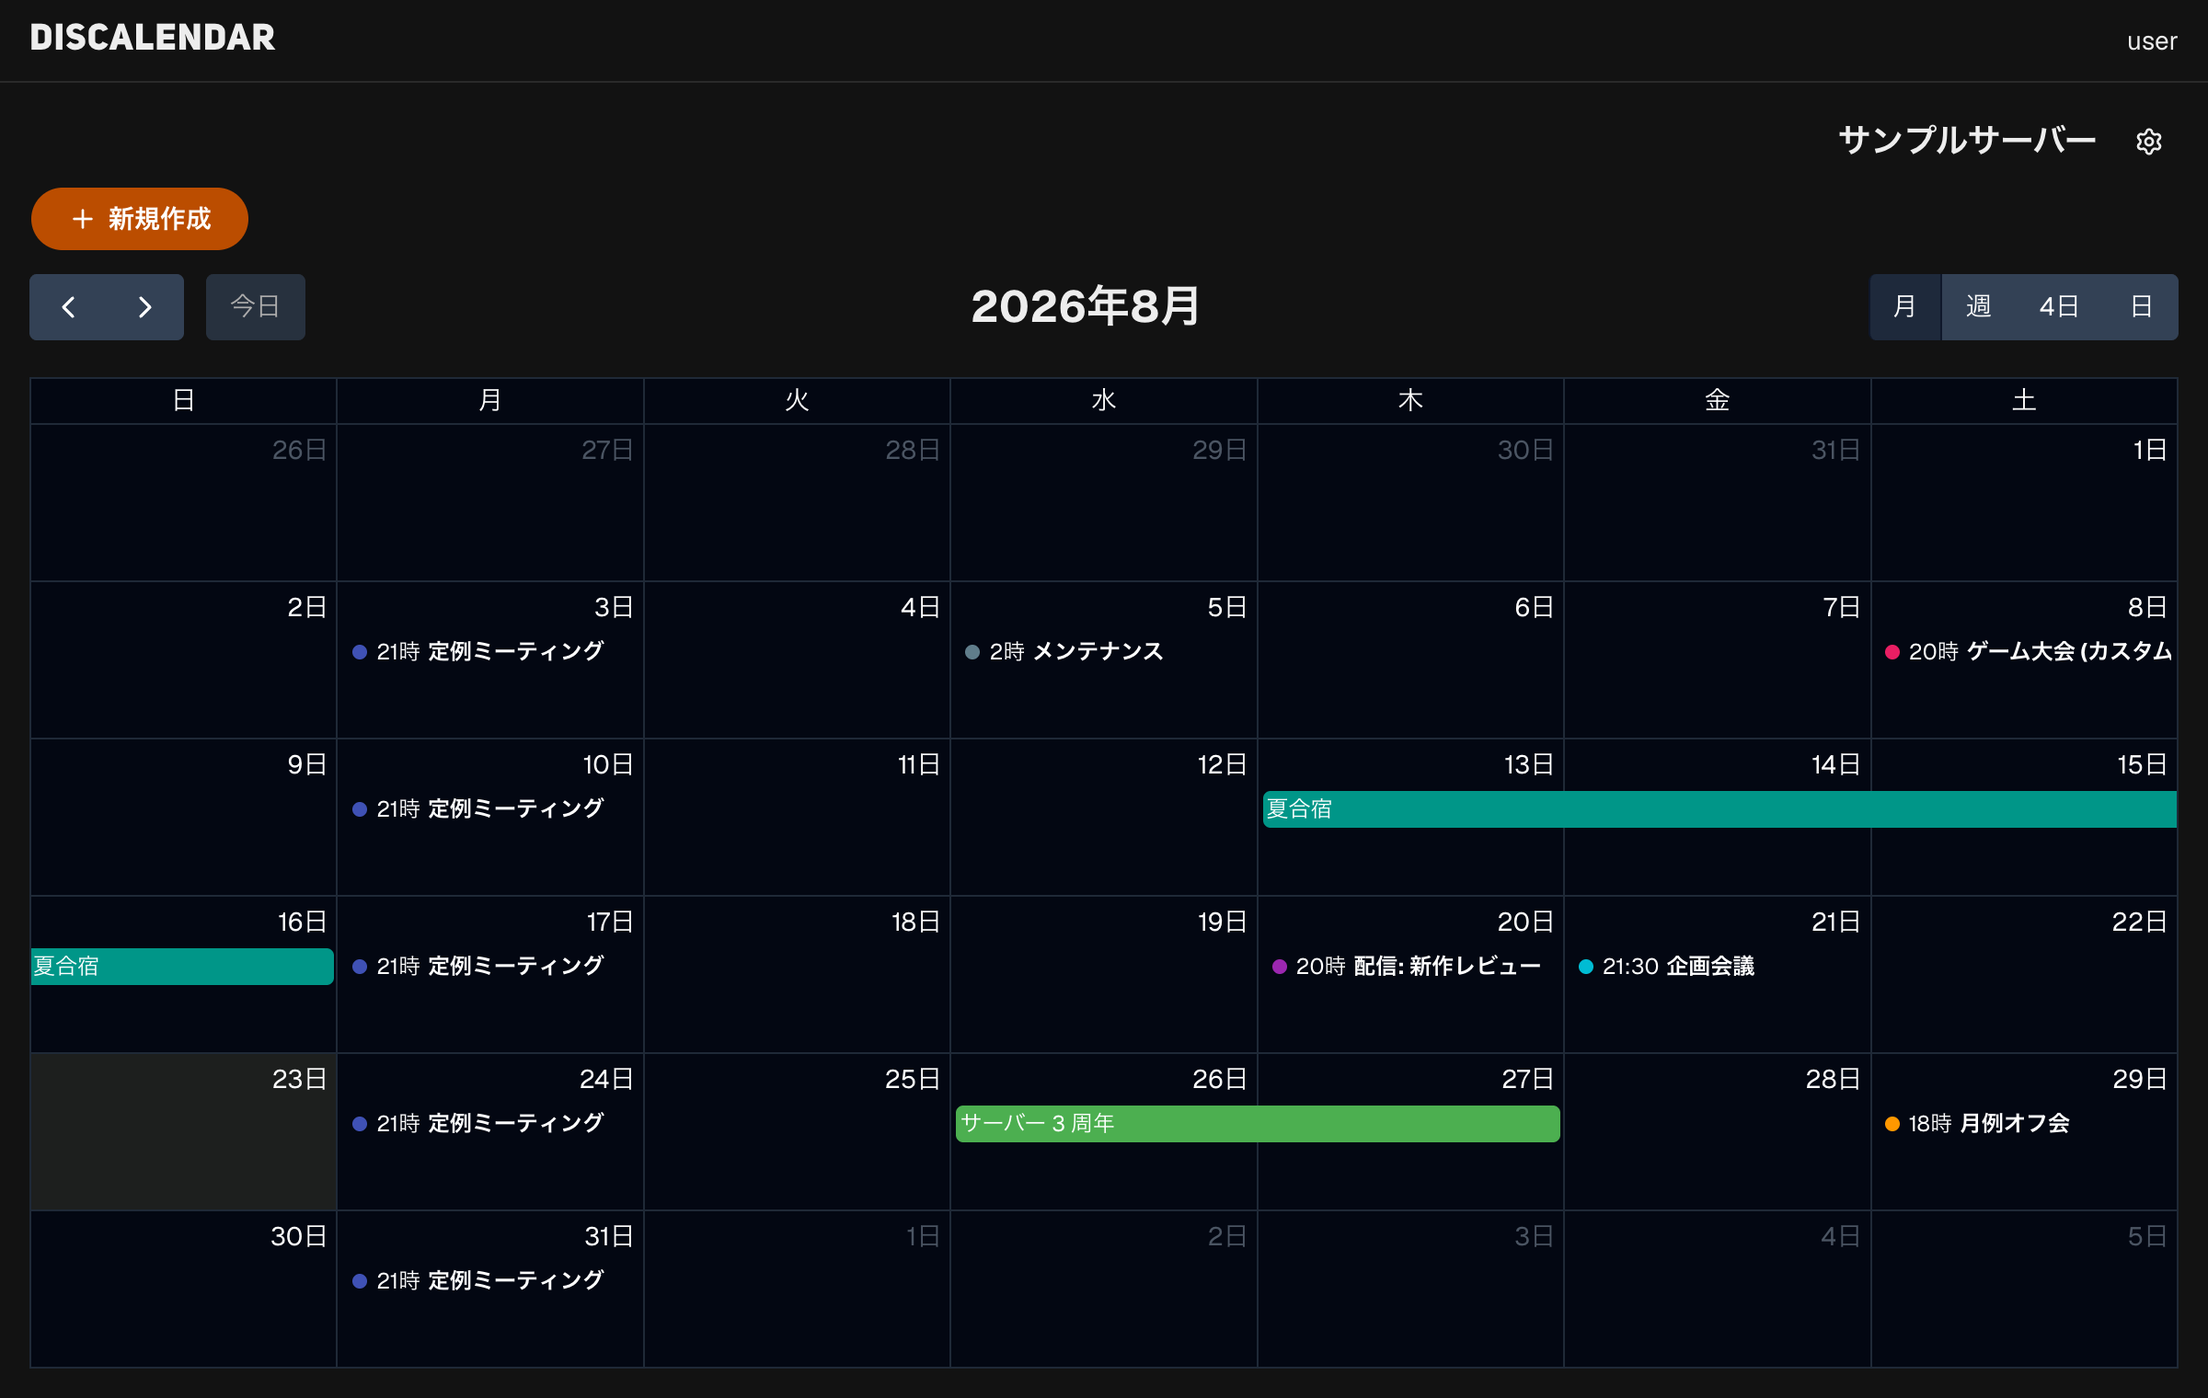
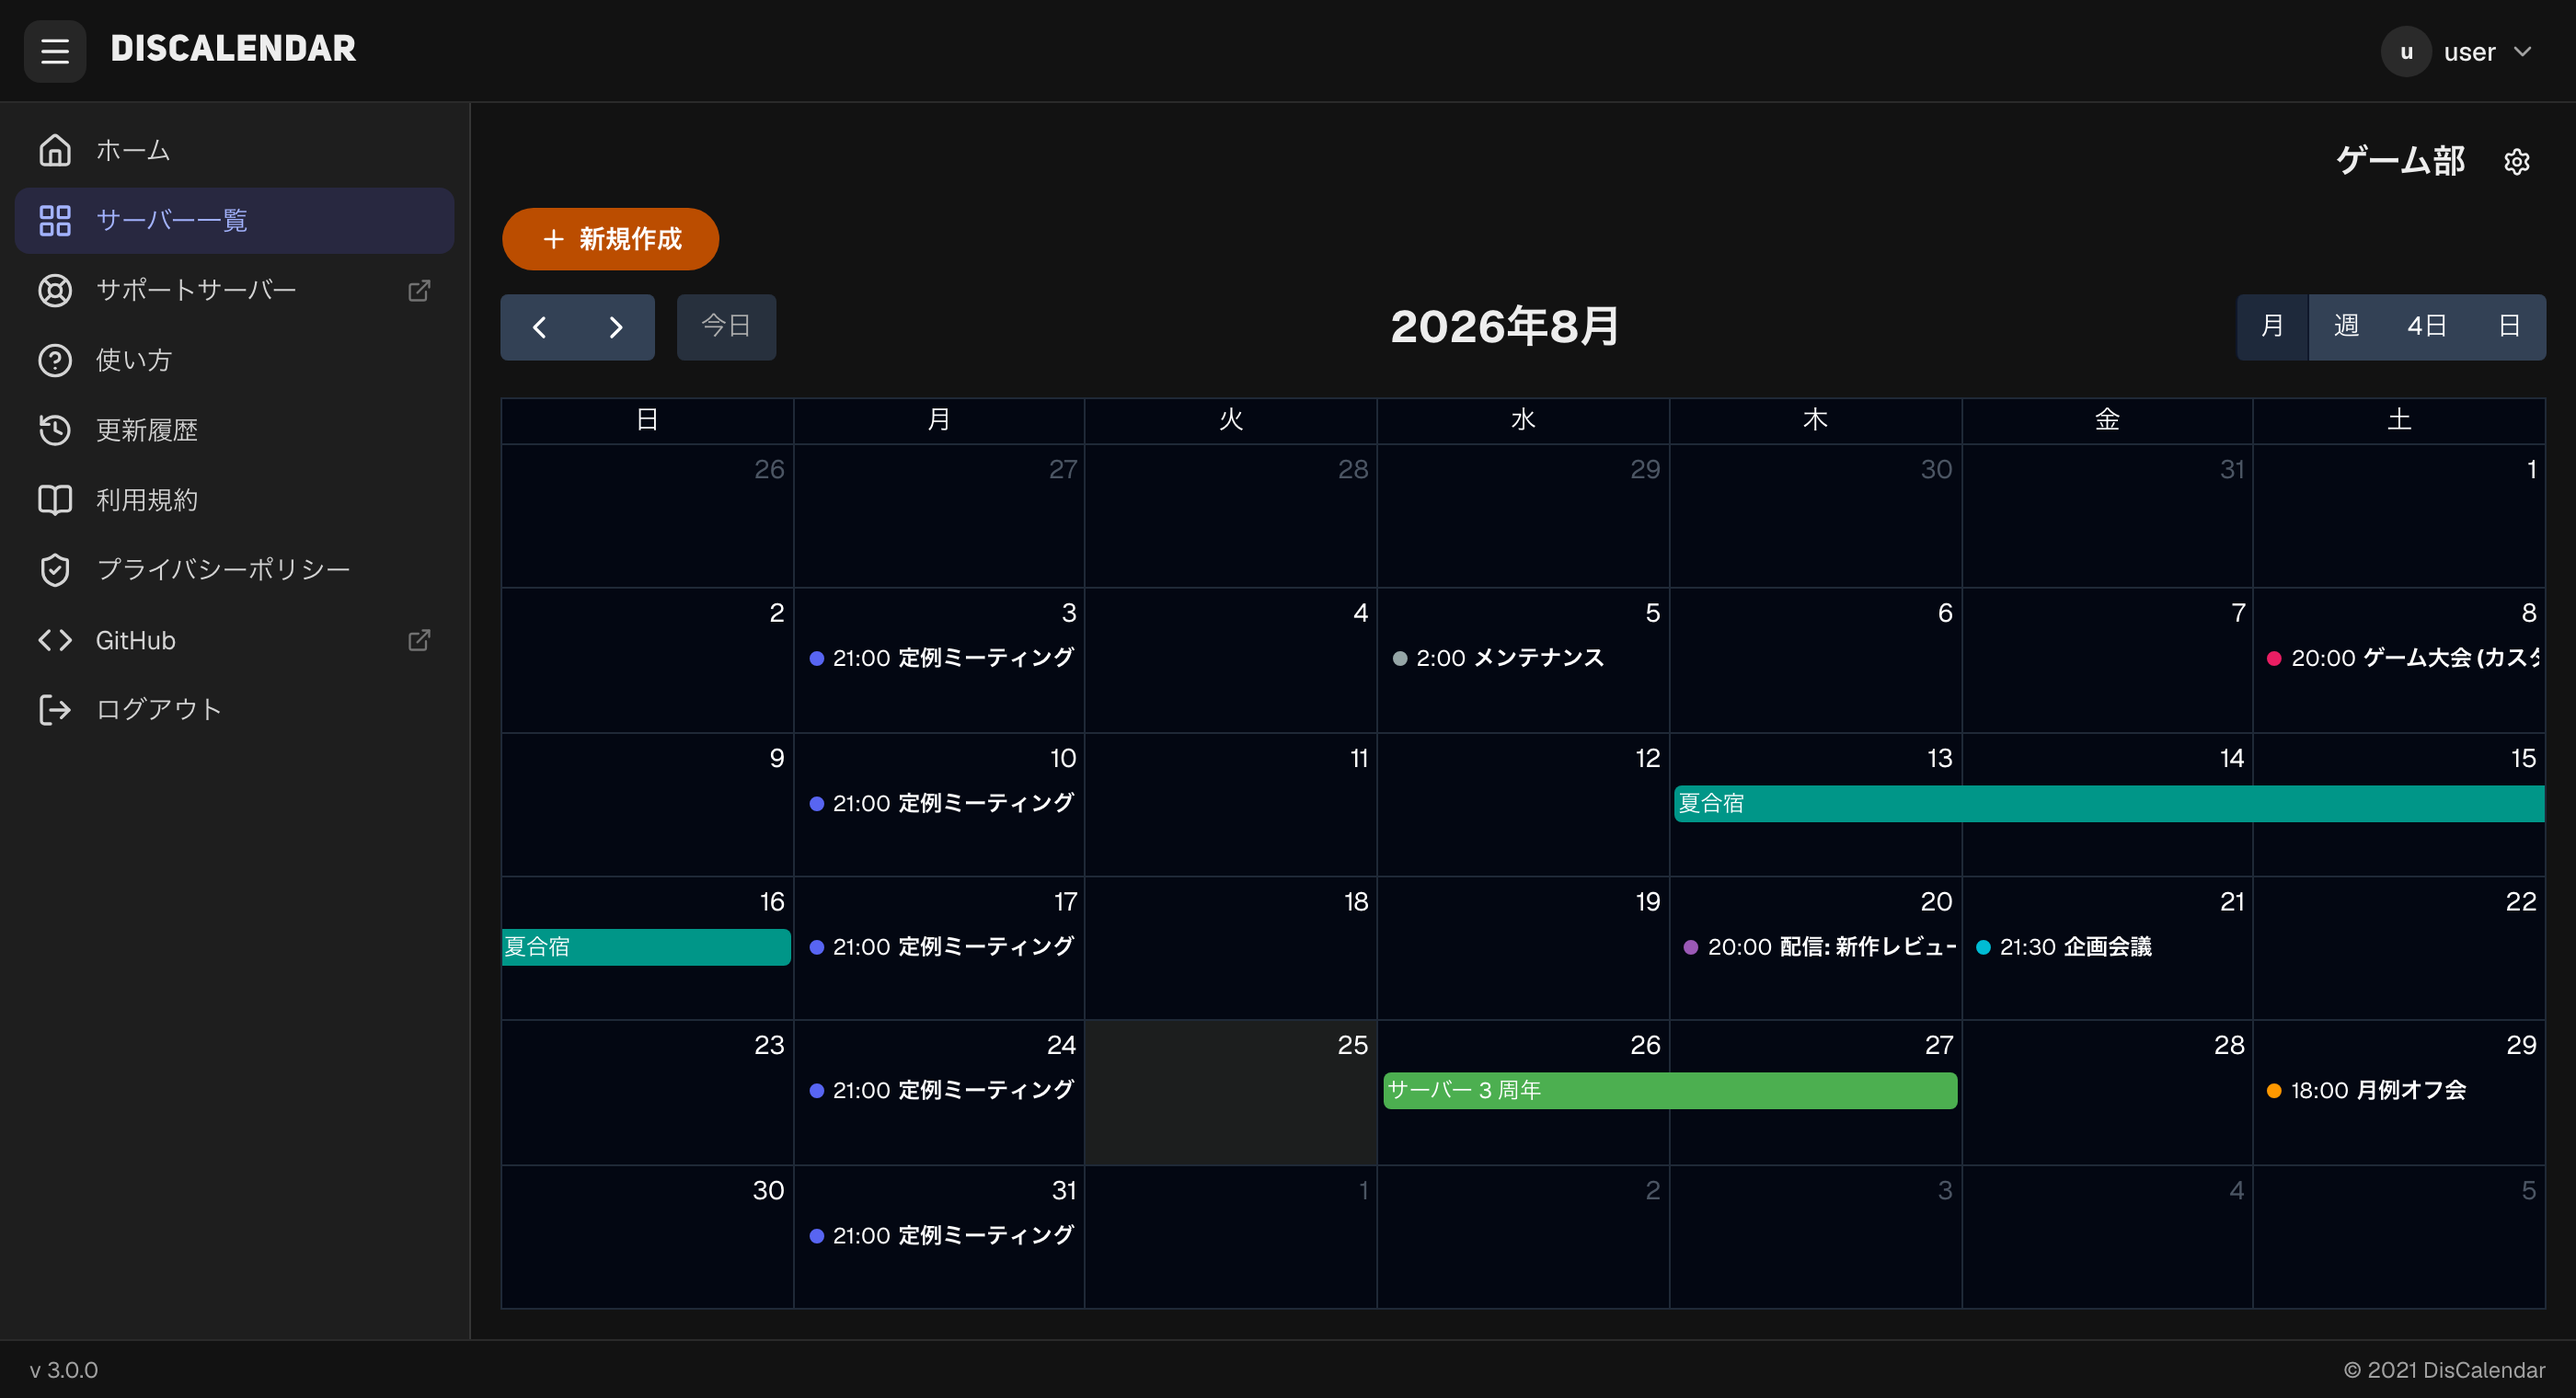
カレンダーの時刻を "H:mm" に揃え、日付から「日」を外す (#64)

diff --git a/web/src/components/event-calendar.tsx b/web/src/components/event-calendar.tsx
@@ -7,6 +7,7 @@ import Calendar, {
   type DatesSetInfo,
   type EventChangeInfo,
   type EventClickInfo,
+  type FormatterInput,
 } from "@fullcalendar/react";
 import dayGridPlugin from "@fullcalendar/react/daygrid";
 import interactionPlugin from "@fullcalendar/react/interaction";
@@ -59,6 +60,42 @@ import {
 import "@fullcalendar/react/skeleton.css";
 import "@fullcalendar/react/themes/classic/theme.css";
 import "@fullcalendar/react/themes/classic/palette.css";
+
+/**
+ * 日時の表記。FullCalendar の既定は Intl.DateTimeFormat 任せなので、日本語ロケールでは
+ * ブラウザ (ICU) の実装差がそのまま出る。時刻は 24 時間制の "H:mm"、日付は数字だけに固定する
+ */
+
+/** "2:00" (分が 0 でも省略しない) */
+function timeText({ hour, minute }: { hour: number; minute: number }): string {
+  return `${hour}:${String(minute).padStart(2, "0")}`;
+}
+
+/**
+ * 予定の時刻。既定は分が 0 のとき「時」だけを出す (omitZeroMinute) ので Chrome は "2時"、
+ * Safari は "2:00" になる。終了時刻まで出す週 / 4日 / 日ビューでは範囲の書式
+ * (Intl の formatRange。ja は "2時00分〜3時00分") が使われる
+ */
+const eventTimeFormat: FormatterInput = (info) =>
+  info.end
+    ? `${timeText(info.start)} - ${timeText(info.end)}`
+    : timeText(info.start);
+
+/** 時刻軸のラベル ("2:00")。既定は予定の時刻と同じ理由で "2時" と "2:00" に割れる */
+const slotHeaderFormat: FormatterInput = (info) => timeText(info.date);
+
+/** 月ビューの日付セル ("26")。ja の Intl は "26日" を返す (既定の omitTrailing では「日」が落ちない) */
+const dayCellFormat: FormatterInput = (info) => String(info.date.day);
+
+/** 曜日の略称。FullCalendar が渡す marker はタイムゾーンを持たない UTC 基準の Date */
+const weekdayFormat = new Intl.DateTimeFormat("ja-JP", {
+  weekday: "short",
+  timeZone: "UTC",
+});
+
+/** 週 / 4日 / 日ビューの日付ヘッダ ("23(日)")。既定は ja だと "23日(日)" / "23日日曜日" */
+const dayHeaderFormat: FormatterInput = (info) =>
+  `${info.date.day}(${weekdayFormat.format(info.date.marker)})`;
 
 interface Props {
   guildId: string;
@@ -254,6 +291,9 @@ export function EventCalendar({
               classicThemePlugin,
             ]}
             locale={jaLocale}
+            eventTimeFormat={eventTimeFormat}
+            slotHeaderFormat={slotHeaderFormat}
+            dayCellFormat={dayCellFormat}
             initialView="dayGridMonth"
             headerToolbar={{
               start: "prev,next today",
@@ -261,6 +301,9 @@ export function EventCalendar({
               end: "dayGridMonth,timeGridWeek,timeGridFourDay,timeGridDay",
             }}
             views={{
+              // 日付ヘッダに日付を出すのは timeGrid 系だけ (月ビューは曜日だけでよい)。
+              // 親の "timeGrid" に指定すると週 / 4日 / 日ビューすべてに効く
+              timeGrid: { dayHeaderFormat },
               timeGridFourDay: {
                 type: "timeGrid",
                 duration: { days: 4 },

diff --git a/web/e2e/calendar.ts b/web/e2e/calendar.ts
@@ -2,7 +2,7 @@ import { expect, type Locator, type Page } from "@playwright/test";
 
 // FullCalendar (月表示) を操作するヘルパー。
 // v7 はクラス名がハッシュ化されているので、ARIA ロールと data-date 属性で要素を探す
-// (日付セル: role=gridcell + data-date="YYYY-MM-DD"、予定: その中の role=button "HH時 タイトル")
+// (日付セル: role=gridcell + data-date="YYYY-MM-DD"、予定: その中の role=button "H:mm タイトル")
 
 export function isoDate(date: Date): string {
   const y = date.getFullYear();
@@ -37,7 +37,7 @@ export async function calendarToday(page: Page): Promise<Date> {
 }
 
 /**
- * カレンダー上の予定 (タイトルで探す)。時刻付きの予定は名前が "HH時 タイトル" になるので、
+ * カレンダー上の予定 (タイトルで探す)。時刻付きの予定は名前が "H:mm タイトル" になるので、
  * 末尾一致で探す (部分一致だと "A" が "A (編集済み)" にも当たってしまう)
  */
 export function eventOn(scope: Page | Locator, title: string): Locator {
